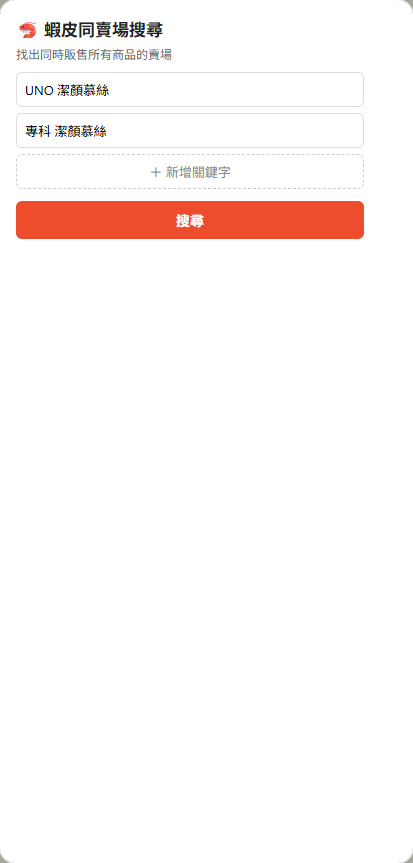
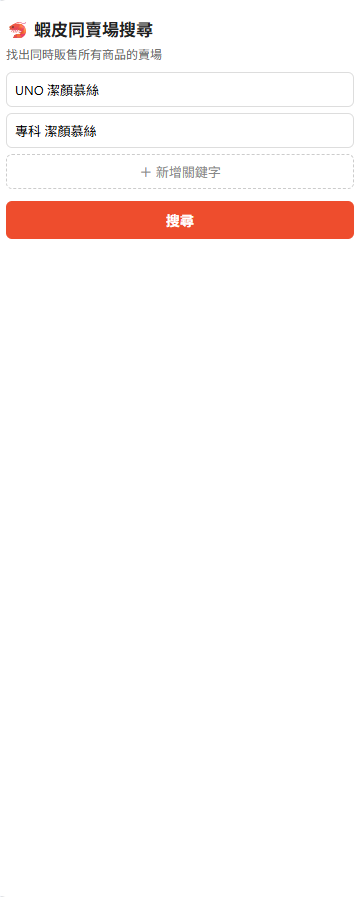
feat: v1.5 — 搜尋結果依合購估價排序、更新 Demo 截圖與 README
- 搜尋結果依最低合購估價由低至高自動排序
- 版本號升至 1.5
- 更新 Demo 截圖（洗顏慕絲系列範例）
- 更新 README 使用情境、使用方式說明與 Demo 備註

diff --git a/shopee-finder/popup.js b/shopee-finder/popup.js
@@ -184,6 +184,14 @@ function renderResults({ shops, keywords }) {
   setStatus(`✅ 找到 ${shops.length} 間賣場`, "success");
   clearBtn.style.display = "";
 
+  shops.sort((a, b) => {
+    const minFor = (shop) => keywords.reduce((sum, kw) => {
+      const kwItems = shop.items[kw] ?? [];
+      return kwItems.length ? sum + Math.min(...kwItems.map(i => i.priceMin)) : sum;
+    }, 0);
+    return minFor(a) - minFor(b);
+  });
+
   for (const shop of shops) {
     const card = document.createElement("div");
     card.className = "shop-card";

diff --git a/README.md b/README.md
@@ -2,7 +2,7 @@
 
 輸入多個關鍵字，自動找出**同時販售所有指定商品**的蝦皮賣場。
 
-![版本](https://img.shields.io/badge/version-1.4-orange)
+![版本](https://img.shields.io/badge/version-1.5-orange)
 ![平台](https://img.shields.io/badge/platform-Chrome%20%2F%20Edge-blue)
 
 ---
@@ -11,7 +11,7 @@
 
 在蝦皮向多個賣場分開下單，每筆都要負擔運費。集中在同一賣場下單，才能達到免運門檻。
 
-例如：輸入「UNO 潔顏慕絲」和「魔唇 護唇膏」，找出同時有賣這兩樣的賣場，**合併購買達到免運門檻，省下多筆運費**。
+例如：輸入「UNO 潔顏慕絲」、「專科 潔顏慕絲」和「魔唇 護唇膏」，找出同時有賣這三樣的賣場，**合併購買達到免運門檻，省下多筆運費**。
 
 ---
 
@@ -21,7 +21,7 @@
 |:---:|:---:|:---:|
 | ![輸入關鍵字](docs/screenshots/01_input.png) | ![搜尋結果](docs/screenshots/02_result1.png) | ![勾選調整後結果](docs/screenshots/03_result2.png) |
 
-> 第三張：取消勾選「UNO 潔顏慕絲」後重新搜尋，結果從 2 間擴展為 7 間賣場
+> 第三張：取消勾選「魔唇 護唇膏」後重新搜尋，結果從 2 間擴展為 15 間賣場
 
 ---
 
@@ -44,7 +44,7 @@
 3. 預設提供兩個關鍵字輸入框，可按「＋ 新增關鍵字」增加更多
 4. 有 3 個以上關鍵字時，可透過左側勾選框暫時停用某個關鍵字，不需刪除
 5. 按「搜尋」，等待結果
-6. 結果依賣場顯示，包含各商品價格、評分、已售數量、到貨時間，以及**合購估價**
+6. 結果依賣場顯示，包含各商品價格、評分、已售數量、到貨時間，以及**合購估價**（由低至高排序）
 7. 點擊商品或賣場連結可直接前往，**關閉面板後結果仍會保留**
 
 ---
@@ -89,4 +89,4 @@ shopee-finder/
 - [x] 到貨時間顯示
 - [x] 關鍵字勾選，暫時停用而不刪除
 - [ ] 賣場免運門檻顯示
-- [ ] 搜尋結果依合購估價排序
+- [x] 搜尋結果依合購估價排序（由低至高）
